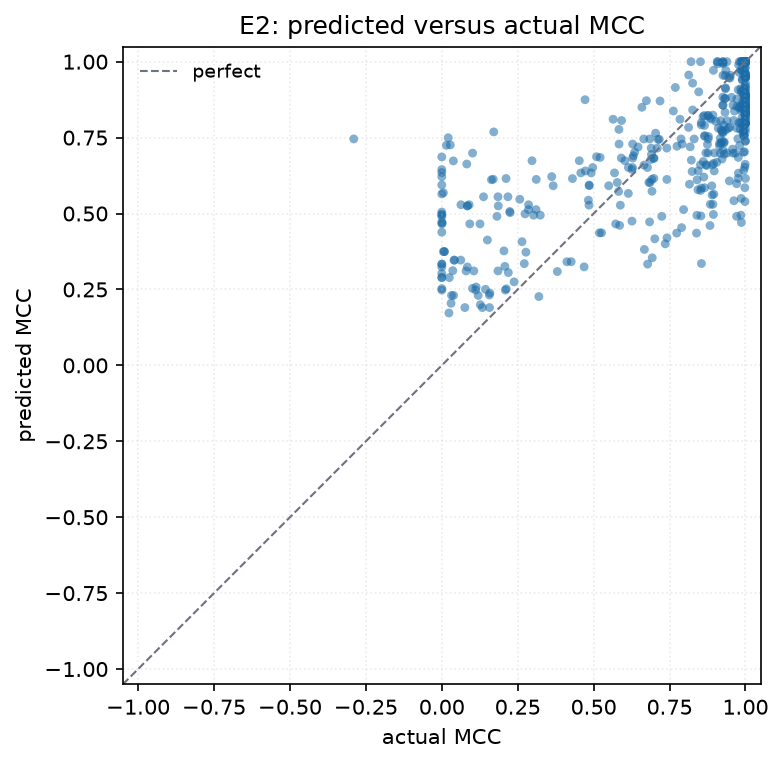
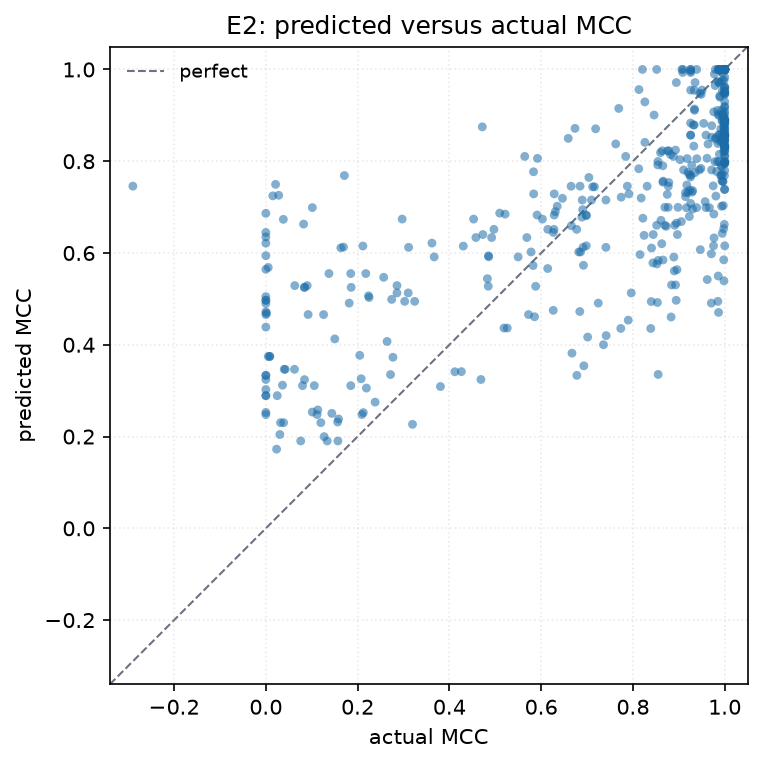
Scale the predicted-vs-actual axes to the data instead of MCC's full range
Runs that failed to train were dropped when the meta-dataset was assembled, so
observed MCC runs from -0.29 (one row) to 1.0. Fixing the axes at [-1, 1] spent
the bottom half of the figure on a region no run occupies and compressed the
range where the points actually are.

Axis bounds now come from scatter_limits(), a pure helper so the choice is
testable rather than buried in a plotting call.

Rescaling makes a real weakness legible: predictions never fall below 0.17 while
38 rows sit at exactly MCC = 0, so the equation cannot identify models that fail
outright on a dataset. Recorded in the README rather than left in the figure.

diff --git a/tests/test_plots.py b/tests/test_plots.py
@@ -14,6 +14,7 @@ from metafit.plots import (
     practice_effects,
     predicted_versus_actual,
     protocol_comparison,
+    scatter_limits,
     term_count_curve,
     term_effects,
 )
@@ -91,6 +92,13 @@ class TestPlots(PlotTestCase):
             predicted_versus_actual(truth, truth + rng.normal(0, 0.1, 80), self.folder / "scatter.png")
         )
 
+    def test_scatter_of_realistic_data_is_still_a_png(self) -> None:
+        truth = np.linspace(0.0, 1.0, 40)
+        self.assertIsPng(
+            predicted_versus_actual(truth, truth * 0.9 + 0.05, self.folder / "tight.png")
+        )
+
+
     def test_term_effects(self) -> None:
         self.assertIsPng(term_effects(effects(), self.folder / "terms.png"))
 
@@ -127,6 +135,36 @@ class TestPlots(PlotTestCase):
     def test_creates_missing_directories(self) -> None:
         nested = self.folder / "a" / "b" / "curve.png"
         self.assertIsPng(term_count_curve(curve(), nested))
+
+
+class TestScatterLimits(unittest.TestCase):
+    """Axis bounds follow the data, not MCC's theoretical range."""
+
+    def test_covers_both_series(self) -> None:
+        truth = np.array([0.0, 0.8])
+        predicted = np.array([0.3, 1.0])
+        low, high = scatter_limits(truth, predicted, margin=0.05)
+        self.assertAlmostEqual(low, -0.05)
+        self.assertAlmostEqual(high, 1.05)
+
+    def test_does_not_stretch_to_minus_one(self) -> None:
+        # The meta-dataset drops runs that failed to train, so its floor is about -0.29.
+        # A fixed [-1, 1] axis would leave the bottom half of the figure empty.
+        truth = np.array([-0.29, 0.0, 1.0])
+        predicted = np.array([0.17, 0.5, 1.0])
+        low, _ = scatter_limits(truth, predicted)
+        self.assertGreater(low, -0.5)
+        self.assertAlmostEqual(low, -0.34)
+
+    def test_margin_is_applied_to_both_ends(self) -> None:
+        values = np.array([0.2, 0.6])
+        low, high = scatter_limits(values, values, margin=0.1)
+        self.assertAlmostEqual(low, 0.1)
+        self.assertAlmostEqual(high, 0.7)
+
+    def test_zero_margin_is_exact(self) -> None:
+        values = np.array([0.0, 1.0])
+        self.assertEqual(scatter_limits(values, values, margin=0.0), (0.0, 1.0))
 
 
 class TestFigureSet(PlotTestCase):

diff --git a/src/metafit/plots.py b/src/metafit/plots.py
@@ -88,23 +88,43 @@ def term_count_curve(
     return _finish(figure, destination)
 
 
+def scatter_limits(truth: np.ndarray, predicted: np.ndarray, margin: float = 0.05) -> tuple[float, float]:
+    """Square axis bounds covering both series, padded by ``margin``.
+
+    Deliberately not MCC's theoretical [-1, 1]. Runs that failed to train were dropped
+    from the meta-dataset, so the observed floor is about -0.29 (one row) rather than -1,
+    and a fixed [-1, 1] axis would spend half the figure on empty space.
+    """
+    lowest = float(min(truth.min(), predicted.min())) - margin
+    highest = float(max(truth.max(), predicted.max())) + margin
+    return lowest, highest
+
+
 def predicted_versus_actual(
     truth: np.ndarray,
     predicted: np.ndarray,
     destination: str | Path,
     *,
     title: str = "Predicted versus actual MCC",
+    margin: float = 0.05,
 ) -> Path:
     """A scatter against the diagonal, with the MCC ceiling made visible.
 
     17% of the meta-dataset sits at exactly MCC = 1.0. That pile-up is the single most
     important thing to see about this target, and a scatter shows it in a way no summary
     statistic does.
+
+    The axes span the observed data, not MCC's theoretical [-1, 1]. Runs that failed to
+    train were dropped from the meta-dataset, so nothing sits far below zero -- the
+    observed floor is about -0.29, from a single row. Drawing the axis down to -1 would
+    devote half the figure to a region no run occupies and squash the range where the
+    points actually are.
     """
+    limits = scatter_limits(truth, predicted, margin)
+
     figure, axes = plt.subplots(figsize=(5.4, 5.2))
-    axes.scatter(truth, predicted, s=18, alpha=0.55, color=IN_SAMPLE, edgecolor="none")
-    limits = (-1.05, 1.05)
-    axes.plot(limits, limits, color=CEILING, linewidth=1.0, linestyle="--", label="perfect")
+    axes.plot(limits, limits, color=CEILING, linewidth=1.0, linestyle="--", label="perfect", zorder=1)
+    axes.scatter(truth, predicted, s=18, alpha=0.55, color=IN_SAMPLE, edgecolor="none", zorder=2)
     axes.set_xlim(limits)
     axes.set_ylim(limits)
     axes.set_aspect("equal")

diff --git a/README.md b/README.md
@@ -173,6 +173,21 @@ of the meta-dataset sits exactly there.
 
 ![Accuracy versus equation length](assets/figures/term_count_curve.png)
 
+### Where the equation fails
+
+![Predicted versus actual MCC](assets/figures/predicted_vs_actual.png)
+
+Runs that failed to train were dropped when the meta-dataset was assembled, so observed
+MCC runs from **-0.29** (a single row) to 1.0 rather than spanning the full [-1, 1]; the
+axes are drawn to the data for that reason.
+
+The scatter shows the equation's clearest weakness. Predictions never fall below **0.17**,
+while 38 rows sit at exactly MCC = 0.0 — an entire column of points hanging above the
+diagonal on the left. **E2 cannot identify the cases where a model will simply fail on a
+dataset.** It is a usable estimator in the range where models work and a poor detector of
+the range where they do not, which is worth stating plainly before anyone uses it to
+screen candidates.
+
 ## Extracted practices
 
 This is what the accuracy was traded for. Each statement is derived from the fitted
